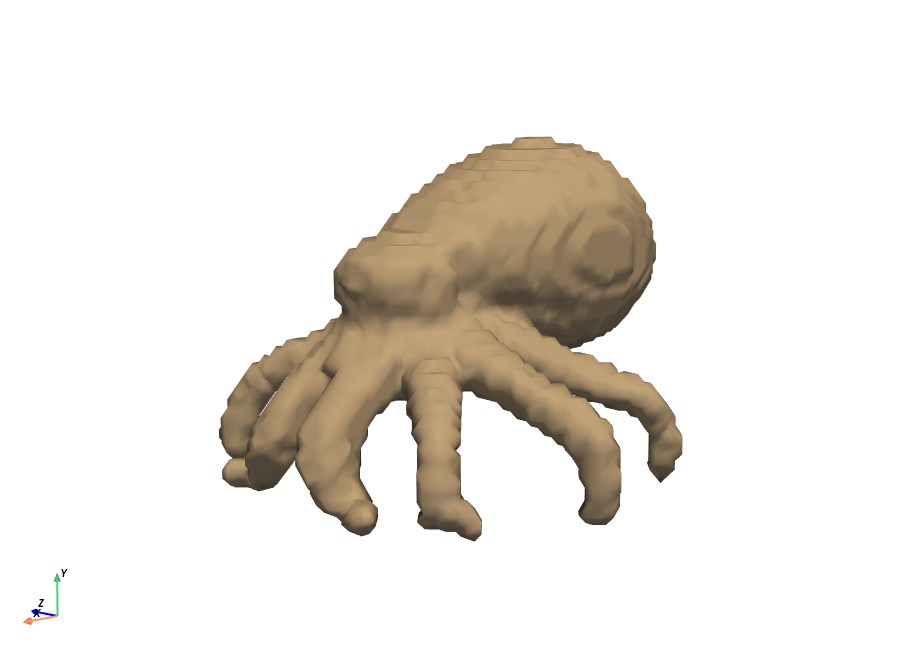
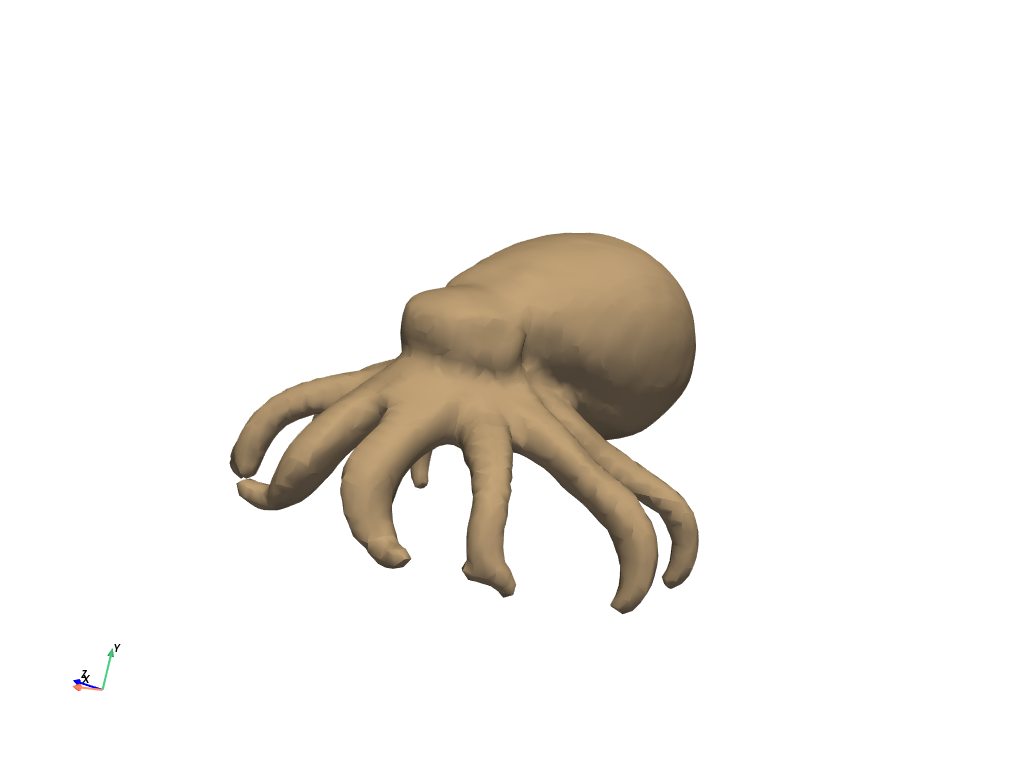
marching cube and optimization fixes

Changed region(s): [[0.2156, 0.1788, 0.7701, 0.8048], [0.0308, 0.8644, 0.1232, 0.924]]

diff --git a/scripts/optimize_msdf.py b/scripts/optimize_msdf.py
@@ -42,7 +42,7 @@ class MSDFOptimizer(torch.nn.Module):
                  centers: torch.Tensor,
                  scales: torch.Tensor,
                  mesh: trimesh.Trimesh,
-                 n_steps: int = 1000):
+                 n_steps: int = 100):
         super().__init__()
         self.Vi = torch.nn.Parameter(Vi, requires_grad=True)
         self.centers = torch.nn.Parameter(centers, requires_grad=True)
@@ -50,7 +50,7 @@ class MSDFOptimizer(torch.nn.Module):
         self.sdf = SDF(mesh.vertices, mesh.faces)
         self.mesh = mesh
         self.n_steps = n_steps
-        self.optimizer = torch.optim.Adam(self.parameters(), lr=1e-5)
+        self.optimizer = torch.optim.AdamW(self.parameters(), lr=1e-4)
 
     def _sample_mesh(self, surface_points_count=2048, vicinities_count=2048):
         points = self.mesh.vertices
@@ -63,9 +63,9 @@ class MSDFOptimizer(torch.nn.Module):
         surface = points[indices_surface]
         surface_normals = normals[indices_surface]
         surface_normals = surface_normals / np.linalg.norm(surface_normals, axis=1)[:, None]
-        offsets = np.random.normal(0, 0.1, vicinities_count)
-        vicinities = points[indices_vicinities] + normals[indices_vicinities] * offsets[:, None]
-        vicinities_sdf = self.sdf(vicinities)
+        offsets = np.random.randn(vicinities_count, 3) * 0.1
+        vicinities = points[indices_vicinities] + offsets
+        vicinities_sdf = -self.sdf(vicinities)
         surface, surface_normals, vicinities, vicinities_sdf = map(
             lambda x: torch.from_numpy(x).to(DEVICE).float(), (surface, surface_normals, vicinities, vicinities_sdf))
         return surface, surface_normals, vicinities, vicinities_sdf
@@ -75,28 +75,30 @@ class MSDFOptimizer(torch.nn.Module):
 
         surface, surface_normals, vicinities, vicinities_sdf = self._sample_mesh()
 
-        surface = torch.nn.Parameter(surface.clone(), requires_grad=True)
         surface_pred = msdf_at_point(surface, self.centers, self.scales, self.Vi)
         vicinities_pred = msdf_at_point(vicinities, self.centers, self.scales, self.Vi)
 
         surface_loss = surface_pred.abs().mean()
         vicinitties_loss = (vicinities_pred - vicinities_sdf).abs().mean()
 
-        gradient = torch.autograd.grad(outputs=surface_pred, inputs=surface, grad_outputs=torch.ones_like(surface_pred),
-                                       create_graph=True, retain_graph=True, only_inputs=True)[0]
+        surface.requires_grad_(True)
+        sdf = msdf_at_point(surface, self.centers, self.scales, self.Vi)
+        gradient = torch.autograd.grad(sdf.sum(), surface, create_graph=True)[0]
+        surface.requires_grad_(False)
 
         gradient_loss = (surface_normals - gradient).abs().mean()
+        loss = surface_loss * 50 + vicinitties_loss + gradient_loss
 
-        loss = surface_loss + vicinitties_loss + 0.1 * gradient_loss
-
+        loss.backward()
         self.optimizer.step()
-        return loss.item()
+        losses_text = f'surface_loss: {surface_loss.item():.5f}, vicinitties_loss: {vicinitties_loss.item():.5f}, gradient_loss: {gradient_loss.item():.5f}'
+        return loss.item(), losses_text
 
     def optimize(self):
         loop = tqdm(range(self.n_steps))
         for _ in loop:
-            loss = self.optimizer_step()
-            loop.set_description(f'loss: {loss:.5f}')
+            loss, losses_text = self.optimizer_step()
+            loop.set_description(losses_text)
 
 
 def chamfer_distance(mesh1: trimesh.Trimesh, mesh2: trimesh.Trimesh) -> float:
@@ -156,7 +158,8 @@ def optimize_msdf(input_path: str = 'assets/octopus/model.obj',
     msdf_values = initial_msdf_values.view(-1, KERNEL_SIZE ** 3).to(DEVICE)
 
     if with_optimization:
-        optimizer = MSDFOptimizer(msdf_values.view(-1, KERNEL_SIZE, KERNEL_SIZE, KERNEL_SIZE), sampled_points, scales,
+        optimizer = MSDFOptimizer(msdf_values.view(-1, KERNEL_SIZE, KERNEL_SIZE, KERNEL_SIZE).clone(),
+                                  sampled_points.clone(), scales.clone(),
                                   mesh)
         optimizer.optimize()
         optimized_msdf_values = optimizer.Vi.detach().cpu()

diff --git a/debug/msdf.py b/debug/msdf.py
@@ -1,0 +1,61 @@
+from utils.msdf import get_grid_points
+
+from utils.mesh import load_mesh
+import trimesh
+import logging
+
+import numpy as np
+import torch
+from fire import Fire
+import taichi
+import trimesh
+from tqdm import tqdm
+import point_cloud_utils as pcu
+from matplotlib import pyplot as plt
+
+from utils.mesh import load_mesh, farthest_point_sampling
+from utils.vis import visualize_mesh
+from scipy.spatial import cKDTree
+from pysdf import SDF
+import rerun as rr
+
+from config import NUM_GRIDS, DEVICE, KERNEL_SIZE
+from utils.msdf import calculate_msdf_value, reconstruct_mesh, msdf_at_point, reconstruct_from_sdf
+from utils import msdf as msdf_utils
+from scripts.optimize_msdf import calculate_scale
+
+logging.basicConfig(level=logging.INFO)
+logger = logging.getLogger(__name__)
+
+
+def values2colors(values: np.ndarray):
+    """
+    :param values: N
+    :return: Nx3
+    """
+    values = values - values.min()
+    values = values / values.max()
+    return plt.cm.viridis(values)
+
+
+def debug_sdf(input_path: str = 'assets/octopus/model.obj',
+               resolution: int = 32):
+    rr.init("debug_msdf", spawn=True)
+    init_mesh = load_mesh(input_path)
+
+    w_vertices, w_faces = pcu.make_mesh_watertight(init_mesh.vertices, init_mesh.faces)
+    mesh = trimesh.Trimesh(vertices=w_vertices, faces=w_faces)
+    sdf_gt = SDF(mesh.vertices, mesh.faces)
+
+    volumes = msdf_utils.sample_volume((-1, 1), resolution)
+    sdf_values = sdf_gt(volumes)
+
+    labels = [f'{x:.3f}' for x in sdf_values.reshape(-1).tolist()]
+    colors = values2colors(sdf_values.reshape(-1))
+    print(len(labels), sdf_values.shape)
+    rr.log("grid_points", rr.Points3D(volumes, labels=labels, colors=colors, radii=np.abs(sdf_values.reshape(-1)) * 0.02))
+
+
+if __name__ == '__main__':
+    taichi.init(arch=taichi.gpu)
+    Fire(debug_sdf)

diff --git a/utils/msdf.py b/utils/msdf.py
@@ -175,8 +175,7 @@ def reconstruct_mesh(Vi, scales, centers, resolution=16, threshold=0.0) -> trime
     grid_sdf = msdf_at_point_batched(grid, centers, scales, Vi)
     grid_sdf = grid_sdf.detach().cpu().numpy().reshape(resolution, resolution, resolution)
 
-    grid_sdf = grid_sdf < threshold
-    verts, faces, _, _ = marching_cubes(grid_sdf, level=0.0)
+    verts, faces, _, _ = marching_cubes(-grid_sdf, level=threshold)
     mesh = trimesh.Trimesh(vertices=verts, faces=faces)
     return mesh
 
@@ -186,7 +185,6 @@ def reconstruct_from_sdf(sdf, resolution):
     grid_sdf = sdf(grid)
     grid_sdf = grid_sdf.reshape(resolution, resolution, resolution)
 
-    grid_sdf = grid_sdf > 0
     verts, faces, _, _ = marching_cubes(grid_sdf, level=0.0)
     mesh = trimesh.Trimesh(vertices=verts, faces=faces)
     return mesh

diff --git a/README.md b/README.md
@@ -39,5 +39,5 @@ Despite efforts to enhance performance, mesh reconstruction from the MSDF repres
 
 ### Optimization
 
-There is a significant likelihood that there are issues with my optimization approach; it fails to converge, resulting in the optimized mesh appearing similar to the non-optimized version.
+Optimized mesh appearing similar to the non-optimized version.
 
